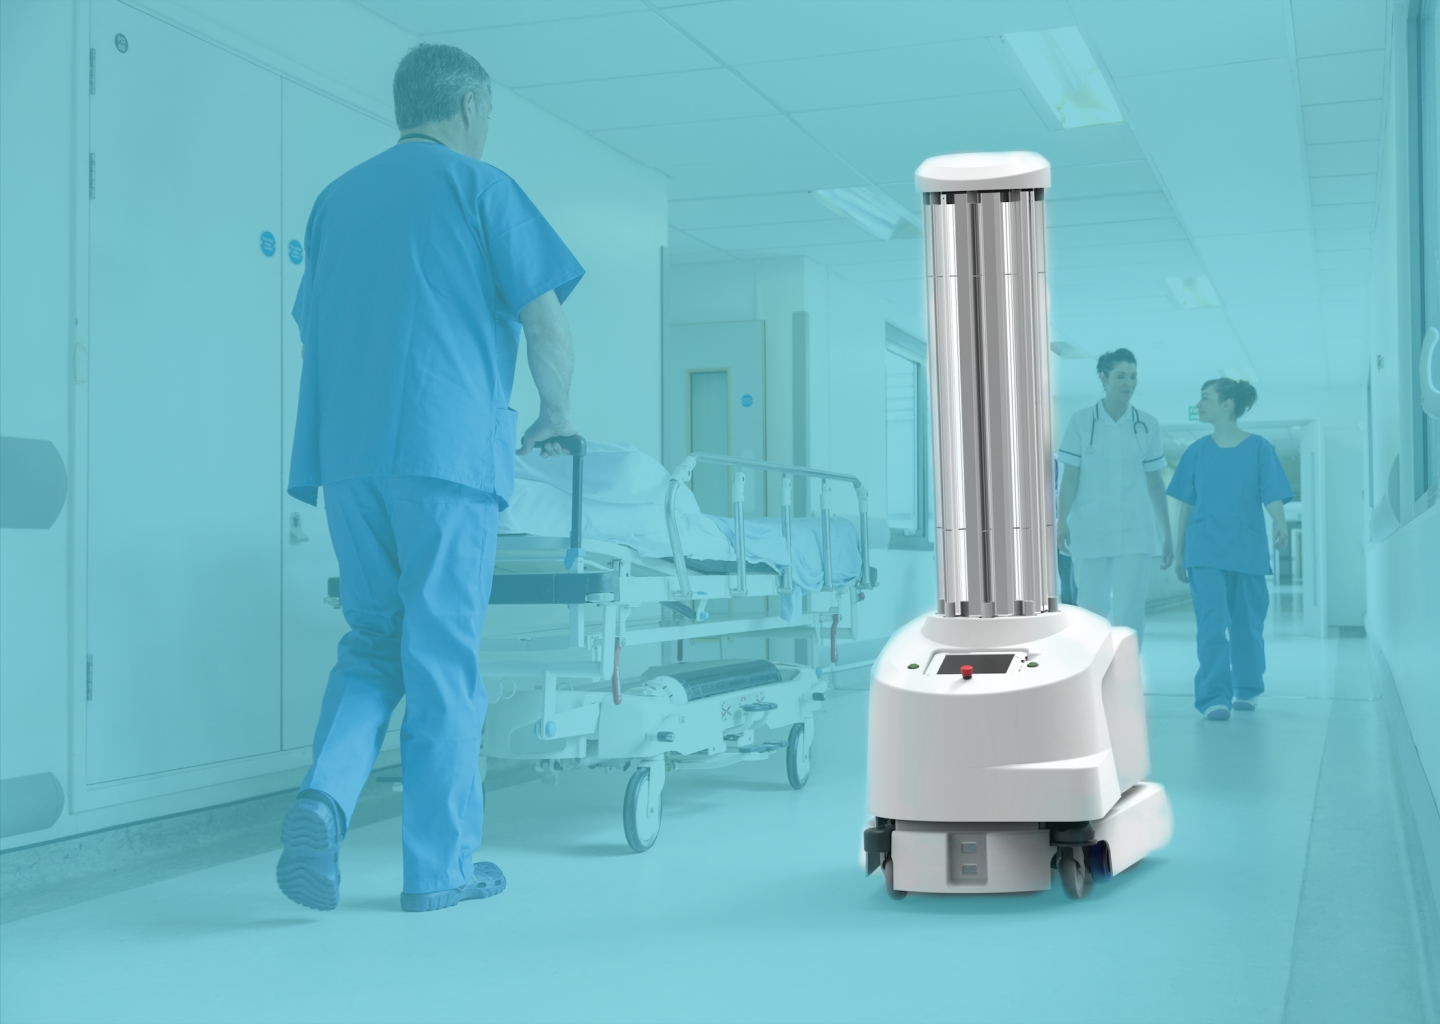
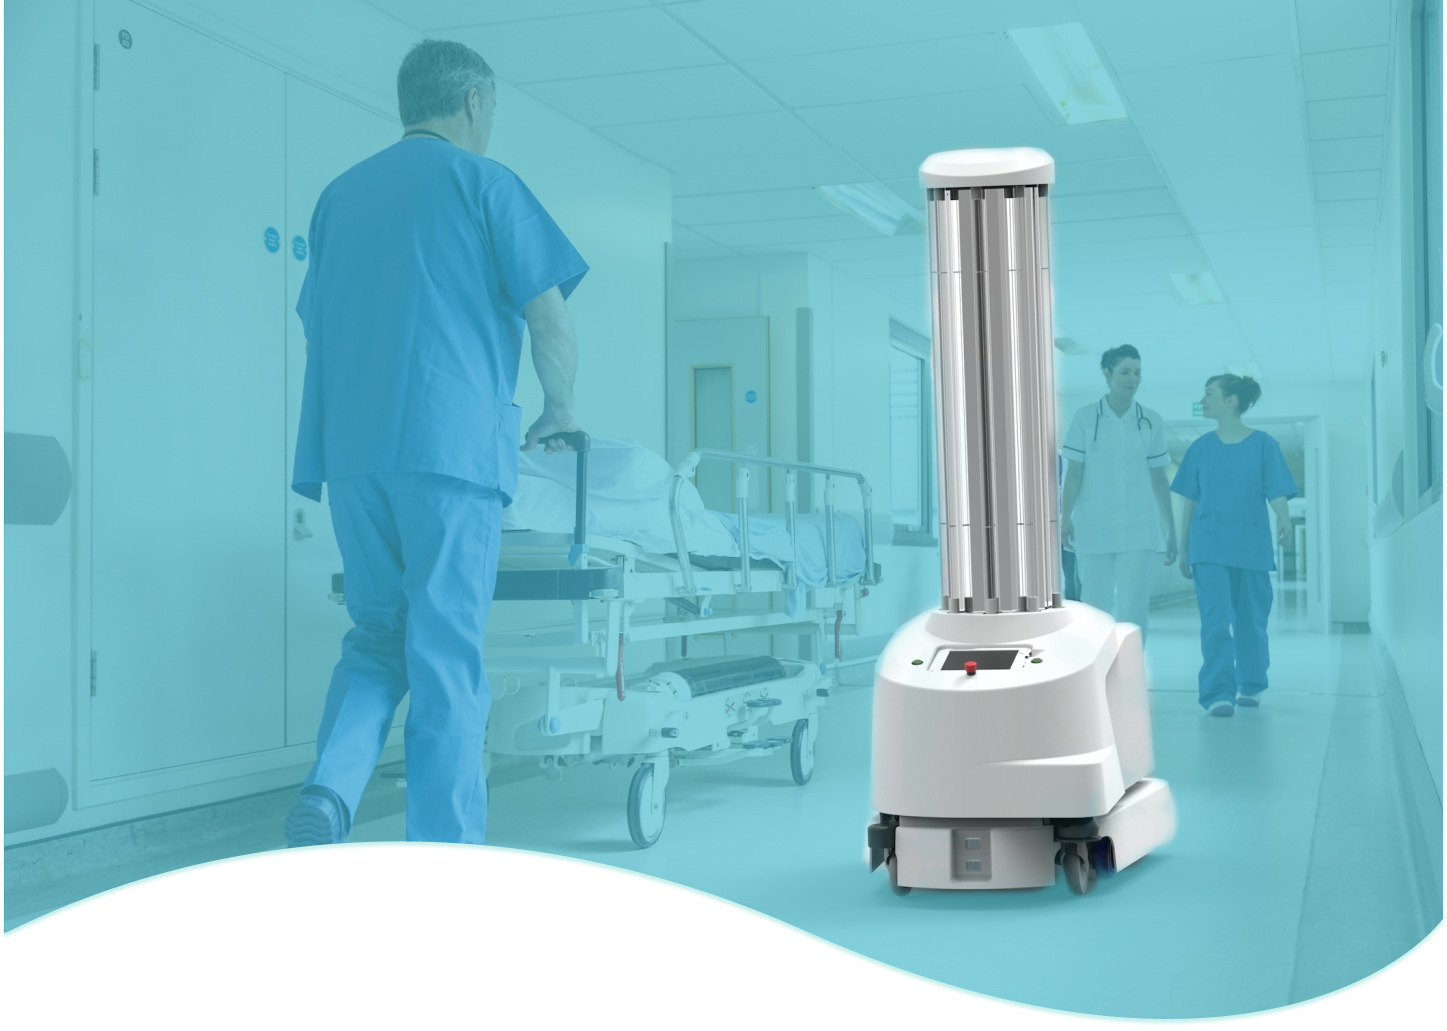
Created beneficts and solutions sections

diff --git a/index.html b/index.html
@@ -8,7 +8,7 @@
   <link href="https://fonts.googleapis.com/css2?family=Lora&family=Roboto:wght@700&display=swap" rel="stylesheet">
   <link rel="stylesheet" href="./css/styles.css">
 
-  <title>TRX Ultra UV</title>
+  <title>LIGHTSTRIKE GERM</title>
 </head>
 
 <body>
@@ -17,7 +17,7 @@
       <div id="background"></div>
 
       <header class="header">
-        <img id="logo" src="./images/logo.png" />
+        <img id="logo" src="/images/logo.png" />
 
         <input class="menu-btn" type="checkbox" id="menu-btn" />
         <label class="menu-icon" for="menu-btn"><span class="navicon"></span></label>
@@ -30,9 +30,84 @@
 
       <div>
         <div class="ml-30">
-          <h1>TRX ULTRA UV</h1>
+          <h1>LIGHTSTRIKE GERM</h1>
           <p class='home-description'>DESINFECÇÃO HOSPITALAR</p>
           <button class="btn"><span>junte-se a nós</span></button>
+        </div>
+      </div>
+    </section>
+
+    <section id="solution" class="container-main">
+      <div class="title-container">
+        <hr class="title-dash"></hr>
+        <h2>A SOLUÇÃO QUE VOCÊ PRECISA</h2>
+        <p class="title-description">para os seus <span>pacientes</span></p>
+      </div>
+
+      <div class="container-wrap">
+        <div class="card">
+          <img src="images/cards/sterilization.png" alt="robô esterilizando">
+          <h3>ESTERILIZAÇÃO</h3>
+          <p>A luz ultravioleta UV-C é absorvida pelos germes e bactérias eliminando-os.</p>
+        </div>
+
+        <div class="card">
+          <img class="card-image" src="images/cards/confiability.png" alt="operador testando o robô">
+          <h3 class="card-title">CONFIABILIDADE</h3>
+          <p>O robô foi testado em laboratório para matar a 99% das bactérias.</p>
+        </div>
+
+        <div class="card">
+          <img class="card-image" src="images/cards/speed.png" alt="robô esterilizando">
+          <h3 class="card-title">VELOCIDADE</h3>
+          <p>Detecta o tamanho da sala e sugere a duração do ciclo de desinfecção de 10 a 20
+            minutos.</p>
+        </div>
+      </div>
+    </section>
+
+    <section id="beneficts" class="container-main">
+      <div class="title-container">
+        <hr></hr>
+        <h2>A MELHOR TECNOLOGIA</h2>
+        <p class="title-description">para o seu <span>Hospital</span></p>
+      </div>
+
+      <div class="container-wrap">
+        <div class="icon">
+          <img src="images/icons/touch.png" alt="dedo clicando">
+          <div><h3>FACILIDADE PARA USAR</h3></div>
+          <p>O tablet operacional orienta o operador e informa sobre o status do processo</p>
+        </div>
+
+        <div class="icon">
+          <img src="images/icons/control-quality.png" alt="controle de qualidade">
+          <div><h3>PROTEÇÃO SANITÁRIA</h3></div>
+          <p>O sistema registra detalhes de todos as esterilizações</p>
+        </div>
+
+        <div class="icon">
+          <img src="images/icons/target.png" alt="alvo com dardos">
+          <div><h3>EFETIVIDADE</h3></div>
+          <p>Executar a ciclos com menor duração garante atingir pontos cegos</p>
+        </div>
+
+        <div class="icon">
+          <img src="images/icons/protect-health.png" alt="escudo com símbolo de mais">
+          <div><h3>PROTEÇÃO SANITÁRIA</h3></div>
+          <p>O robô é seguro, confiável e elimina erros humanos</p>
+        </div>
+
+        <div class="icon">
+          <img src="images/icons/context.png" alt="círculo grande com círculos menores em volta">
+          <div><h3>ÂMBITO DE APLICAÇÃO</h3></div>
+          <p>Desinfecta quartos, banheiros, recepção e salas de cirgurgia</p>
+        </div>
+
+        <div class="icon">
+          <img src="images/icons/connectivity.png" alt="alvo com dardos">
+          <div><h3>CONECTIVIDADE</h3></div>
+          <p>A conexão wifi integrada com um tablet garante operação ininterrupta</p>
         </div>
       </div>
     </section>

diff --git a/css/styles.css b/css/styles.css
@@ -9,10 +9,49 @@ body, html {
   height: 100%;
   width: 100%;
   background-position: center;
+  background-attachment: fixed;
   background-repeat: no-repeat;
   background-size: cover;
   position: absolute;
   z-index: -1;
+}
+
+.container-wrap {
+  display: flex;
+  justify-content: space-around;
+  flex-wrap: wrap;
+}
+
+.card {
+  text-align: center;
+  width: 20%;
+  flex-wrap: wrap;
+  min-width: 250px;
+  margin-top: 16px;
+}
+
+.card:hover {
+  background: #F8FEFF;
+  box-shadow: 0px 4px 4px rgba(0, 0, 0, 0.25);
+  border-radius: 8px;
+}
+
+.card h3 {
+  font-family: Roboto;
+  font-style: normal;
+  font-weight: normal;
+  font-size: 2.6vh;
+  line-height: 42px;
+  color: #43BCCD;
+  margin: 1.6vh;
+}
+
+.card img {
+  width: 100%;
+}
+
+.card p {
+  margin: 0 10% 4vh 16%;
 }
 
 .home {
@@ -36,6 +75,35 @@ h1 {
   font-size: 3.5vh;
   color: #FAFFFF;
   margin: 0;
+}
+
+.icon {
+  text-align: center;
+  width: 30%;
+  /* height: 300px; */
+  min-width: 250px;
+  border-bottom: 2px solid white;
+}
+
+.icon img {
+  height: 64px;
+  margin-top: 16px;
+}
+
+.icon h3 {
+  font-family: Roboto;
+  font-style: normal;
+  font-weight: bold;
+  font-size: 2.5vh;
+  line-height: 28px;
+  color: #000000;
+}
+
+.icon div {
+  height: 6vh;
+  display: flex;
+  justify-content: center;
+  align-items: center;
 }
 
 .button_container {
@@ -103,6 +171,45 @@ h1 {
 
 }
 
+h2 {
+  font-family: Roboto;
+  font-style: normal;
+  font-weight: bold;
+  font-size: 4vh;
+  line-height: 42px;
+  color: #000000;
+  margin: 0 24px 0 24px;
+  text-align: center;
+}
+
+.container-main {
+  padding: 56px 36px;
+}
+
+.title-container {
+  justify-content: center;
+  margin-bottom: 4vh;
+}
+
+.title-description {
+  font-family: Roboto;
+  font-style: normal;
+  font-weight: bold;
+  font-size: 24px;
+  line-height: 28px;
+  color: #000000;
+  margin: 8px 0 0 0;
+  text-align: center;
+}
+
+.title-description span {
+  color: #43BCCD;
+}
+
+#beneficts .title-description span {
+  color: #F8FEFF;
+}
+
 .home > div:nth-child(3) {
   padding-left: 0vw;
   padding-top: 24px;
@@ -110,7 +217,7 @@ h1 {
 }
 
 .header a {
-  color:#FAFFFF;
+  color: #F8FEFF;
   font-size: 2vh;
   font-family: 'Roboto', sans-serif;
 }
@@ -215,7 +322,22 @@ h1 {
   top: 0;
 }
 
-/* 48em = 768px */
+hr {
+  width: 20%;
+  background-color: #43BCCD;
+  height: 8px;
+  border-radius: 25px;
+  margin-bottom: 16px;
+  border: none;
+}
+
+#beneficts hr {
+  background-color: #F8FEFF;
+}
+
+#beneficts {
+  background-color: #A7D9E0;
+}
 
 @media (min-width: 48em) {
   .header li {
